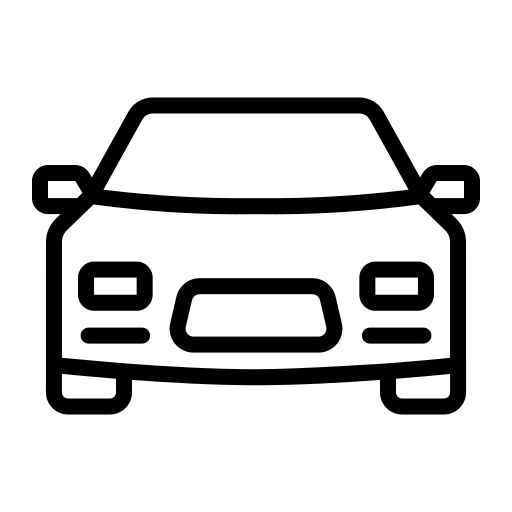
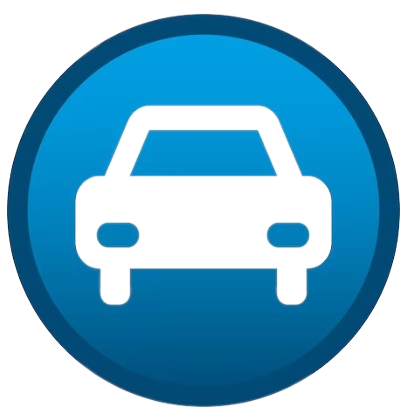
FINISHED

diff --git a/sobre.html b/sobre.html
@@ -6,22 +6,8 @@
     <meta charset="UTF-8">
     <meta name="viewport" content="width=device-width, initialscale=1.0">
     <meta http-equiv="X-UA-Compatible" content="ie=edge">
-    <!-- Seu CSS -->
     <link href="style.css" type="text/css" rel="stylesheet">
-
-    <!-- CSS do SLIDE -->
-    <link rel="stylesheet" href="orbit-1.2.3.css">
-
-    <!-- Arquivos JavaScript -->
-    <script type="text/javascript" src="js/jquery-1.5.1.min.js"></script>
-    <script type="text/javascript" src="js/jquery.orbit-1.2.3.min.js"></script>
-
-    <!-- JavaScript que da o Efeito de trocar imagens -->
-    <script type="text/javascript">
-        $(window).load(function () {
-            $('#featured').orbit();
-        });
-    </script>
+    <link rel="icon" href="img/icone.png">
 
 </head>
 

diff --git a/index.html b/index.html
@@ -7,6 +7,7 @@
     <meta http-equiv="X-UA-Compatible" content="ie=edge">
     <link rel="stylesheet" href="style.css">
     <title>Loja de carros</title>
+    <link rel="icon" href="img/icone.png">
 
 </head>
 
